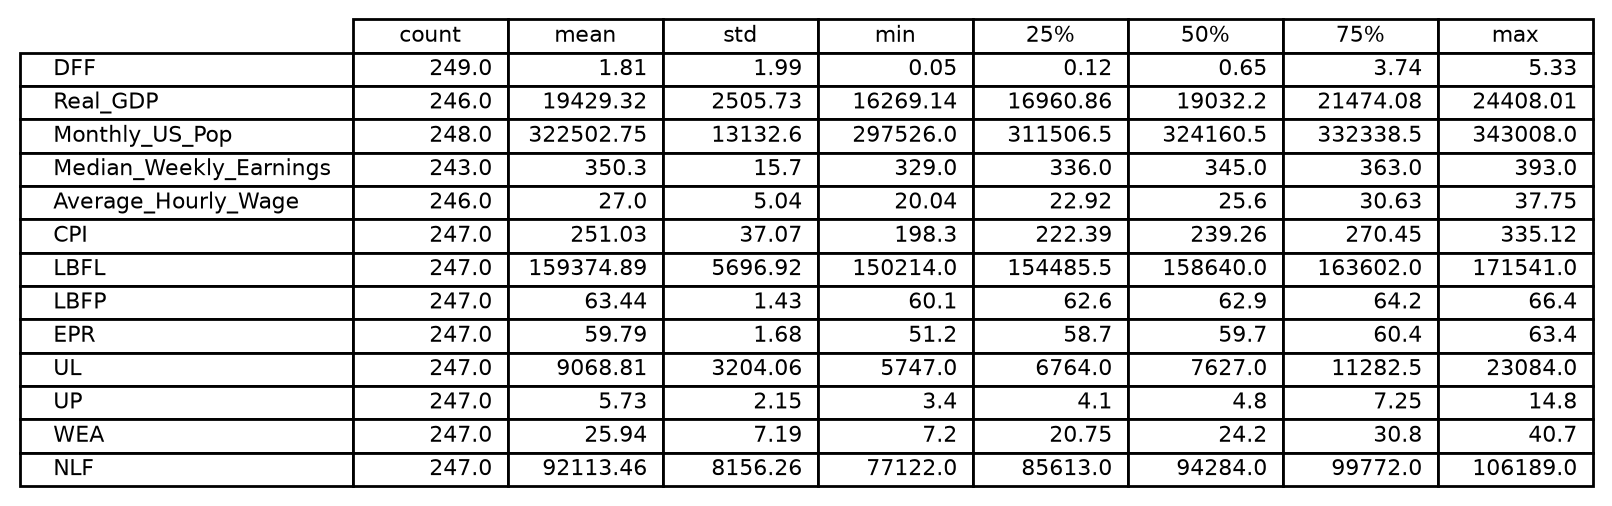
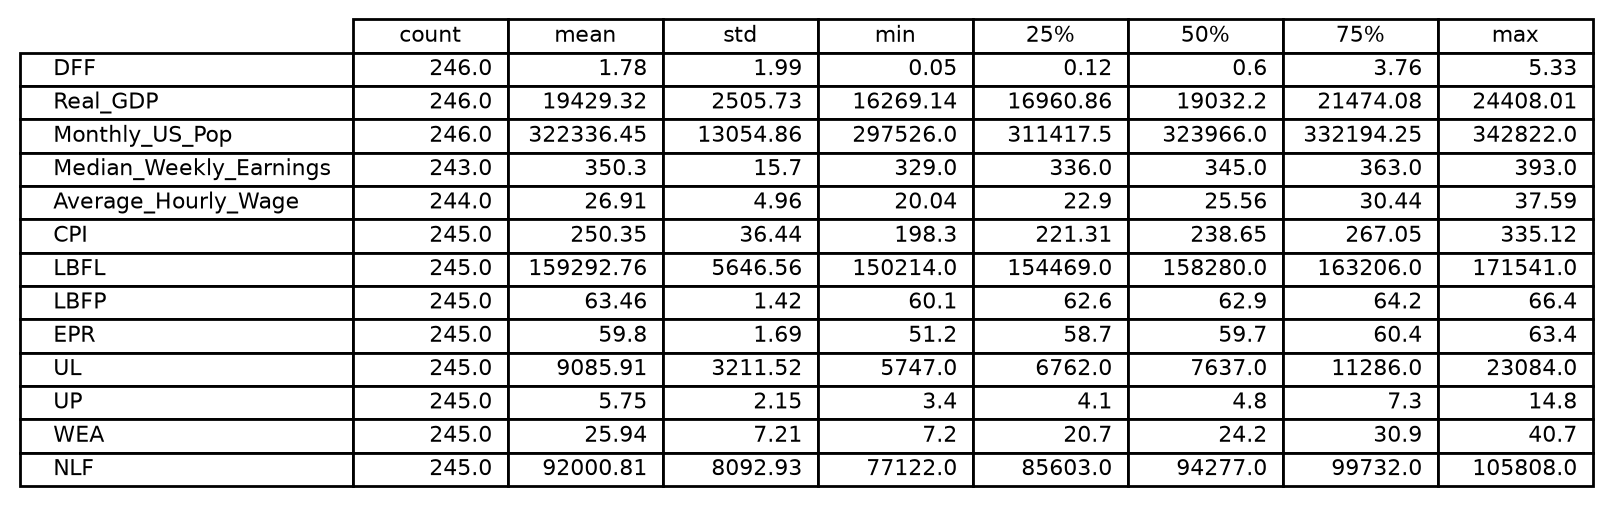
Initial SARIMA specification

diff --git a/Regression.py b/Regression.py
@@ -1,3 +1,51 @@
-#Regression
+# %% Required libraries
+from datetime import datetime
+import pandas as pd
+import numpy as np
+import matplotlib.pyplot as plt
+import statsmodels as stat
+from statsmodels.tsa.stattools import adfuller, kpss
+from statsmodels.stats.diagnostic import acorr_ljungbox
+from statsmodels.graphics.tsaplots import plot_acf, plot_pacf
+from statsmodels.tsa.arima.model import ARIMA
+from statsmodels.tsa.statespace.sarimax import SARIMAX
+import pmdarima as pm
+from scipy import stats
+# %% Data
+Main = pd.read_csv("MainDataSet.csv", index_col="Date", parse_dates=True)
+Main["EPR_clean"] = Main["EPR"].ffill(limit=1)
+# %%  ADF test 
+print("ADF test")
+print("H0: the series has a unit root (non-stationary)")
+adf_level = adfuller(Main["EPR_clean"], autolag="AIC")
+print(f"  statistic = {adf_level[0]:.4f}")
+print(f"  p-value   = {adf_level[1]:.4f}")
+print(f"  lags used = {adf_level[2]}")
+# %% KPSS
+print()
+print("KPSS test")
+print("H0: the series is stationary")
+kpss_level = kpss(Main["EPR_clean"], regression="c", nlags="auto")
+print(f"  statistic = {kpss_level[0]:.4f}")
+print(f"  p-value   = {kpss_level[1]:.4f}")
+# The series is stationary
+# %% ACF and PACF
+fig, axes = plt.subplots(1, 2, figsize=(10, 3.5))
+plot_acf(EPR_clean, lags=12, ax=axes[0])
+plot_pacf(EPR_clean, lags=12, ax=axes[1])
+for ax in axes:
+    for seasonal_lag in [4, 8, 12]:
+        ax.axvline(seasonal_lag, color="gray", linestyle=":", linewidth=1)
+fig.tight_layout()
+plt.show()
+# %% ARIMA test Initial
+auto_model = pm.auto_arima(
+    Main["EPR_clean"],
+    #seasonal=True,
+    #m=4,  # quarterly seasonal period
+    trace=False,
+    error_action="ignore",
+    suppress_warnings=True,
+)
 
-
+print(auto_model.summary())

diff --git a/DataProcessing.py b/DataProcessing.py
@@ -73,6 +73,7 @@ Main = Main.merge(NLF_Long[["Date", "NLF"]], on="Date", how="left")
 # %% Data manipulation
 quarterly_cols = ["Real_GDP", "Median_Weekly_Earnings"]
 Main[quarterly_cols] = Main[quarterly_cols].ffill(limit=2)
+Main = Main[Main["Date"] <= "2026-06-01"]
 Main = Main.set_index("Date")
 Main.to_csv("MainDataSet.csv", index=True)   # index=True keeps the dates
 # %%
